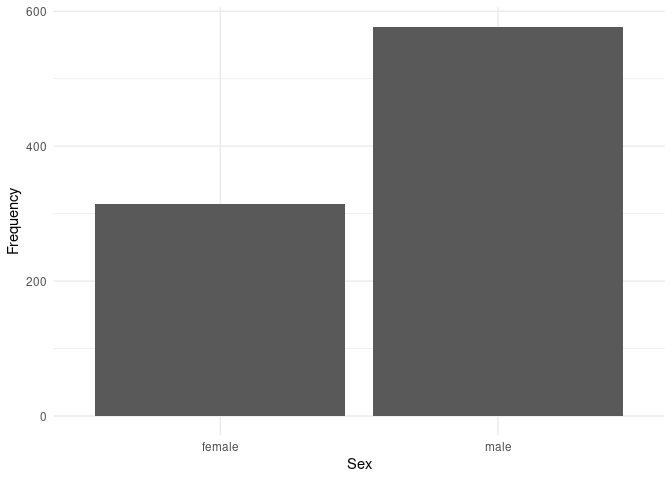
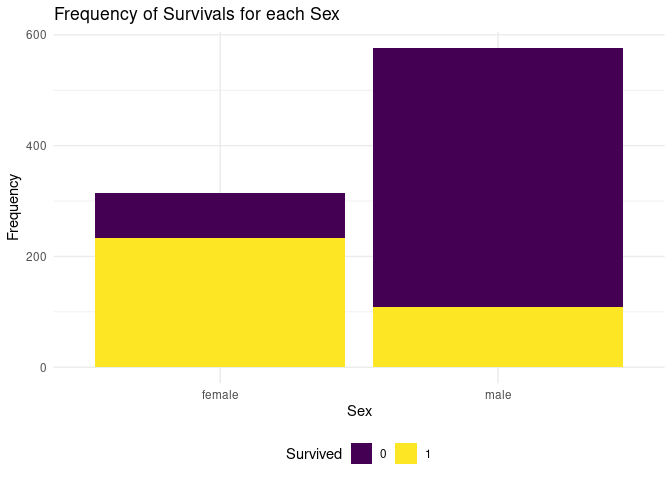
Section 3

diff --git a/proposal/proposal.md b/proposal/proposal.md
@@ -9,6 +9,8 @@ library(here)
 library(dplyr)
 library(ggplot2)
 library(ggridges)
+library(forcats)
+library(scales)
 ```
 
 ## 1. Introduction
@@ -99,28 +101,50 @@ The 12 variables in the data set are:
 
 ## 3. Data analysis plan
 
+``` r
+titanic$Survived <- as.factor(titanic$Survived)
+titanic$Sex <- as.factor(titanic$Sex)
+titanic$Pclass <- as.factor(titanic$Pclass)
+```
+
 #### Hypothesis 1: Women have a higher survival rate than men.
 
 We assume that men were helping women while the tragic of Titanic was
 taking place, since this is a habitual behavior of men to give priority
 to women. In order to confirm if this is true we will create a bar plot
 using gender as the predictor variable and frequency displayed in terms
-of colors showing survivals or not. Moreover, we will calculate the
-survival rate by gender. Since the variables that we will be using are
+of colors showing survivals or not as the outcome variable. Moreover, we
+will calculate the survival rate by gender.See the summary statistics
+below: filtering by the passengers who survived , we can see that the
+proportion of women passengers who survived is as high as 0.68 and the
+proportion of men passengers who survived is almost half of the women’s
+(approximately 0.32).Since the variables that we will be using are
 categorical , an appropriate statistical method to verify our hypothesis
 is the Chi-Square test as it will show whether gender and survival are
 independent or not of one another.
 
 ``` r
 titanic %>%
-  filter ( Survived == "1") %>%
-  count(Sex) %>%
-  mutate(n/sum(n))
+  ggplot(mapping=aes(x= Sex, fill= Survived))+
+  geom_bar()+
+  theme_minimal()+
+  scale_fill_viridis_d() +
+    labs( x = "Sex", y = "Frequency", fill = "Survived", title = "Frequency of Survivals for each Sex") +
+   theme(legend.position = "bottom")
 ```
 
-    ##      Sex   n  n/sum(n)
-    ## 1 female 233 0.6812865
-    ## 2   male 109 0.3187135
+![](proposal_files/figure-gfm/gender-survival-1.png)<!-- -->
+
+``` r
+titanic %>%
+  filter(Survived == "1") %>%
+  count(Sex) %>%
+  mutate(prop_survival = n / sum(n))
+```
+
+    ##      Sex   n prop_survival
+    ## 1 female 233     0.6812865
+    ## 2   male 109     0.3187135
 
 #### Hypothesis 2: The younger survivals are more than the older survivals .
 
@@ -129,31 +153,62 @@ for granted that people give priority to saving infants and young
 children by giving priority when it comes to providing life saving
 equipment.Beyond that the survival of passengers is highly related to
 physical abilities which means that the younger the passenger is the
-higher possibility to survive. We will have to create a new variable
-called “Age\_Range” which groups the ages by scale of 15, that is 0-15,
-16-30 etc. Then a possible way to visualize the data it is to use a
-histogram using “Age Range” as the predictor variable(X) and “Frequency”
-as the outcome variable(Y) displayed in terms of colors showing
-survivals or not. This type of graph will point out the the modal class
-of Age Ranges. Moreover we will calculate the survival rate by age range
-which will allow us to find out the ages with the highest possibility to
-survive. A statistical method that is more useful to answer our
+higher possibility to survive.A possible way to visualize the data it is
+to use a histogram using “Age” as the predictor variable(X) and
+“Frequency” as the outcome variable(Y) displayed in terms of colors
+showing survivals or not. This type of graph will point out the the Age
+with the highest number of survival. Since the dataset provides many
+ages, we will have to create a new variable called “Age\_Range” which
+groups the ages by scale of 10, that is 0-10, 11-20 etc so that we can
+find the survival rate for each age range and come out with more
+discrete conclusion.See the summary statistics below: filtering by the
+passengers who survived, we can see that the proportion of passengers
+aged between 21-30 years old have the highest probability to survive
+with 0.246.A statistical method that is more useful to answer our
 hypothesis is to create a box plot for all ages so that we can conclude
 which ages have highest possibility to survive as it displays the median
-as well as the standard deviation and excludes outliers, extreme values.
+as well as interquartile range which they exclude outliers, extreme
+values.
+
+``` r
+titanic %>% 
+  ggplot(mapping=aes( x= Age , fill=Survived))+
+  geom_histogram( binwidth=5 )+
+   theme_minimal()+
+  scale_fill_viridis_d() +
+    labs( x = "Age", y = "Frequency", fill = "Survived", title = "Survival rate by age") +
+   theme(legend.position = "bottom")
+```
+
+    ## Warning: Removed 177 rows containing non-finite values (stat_bin).
+
+![](proposal_files/figure-gfm/age-survival-1.png)<!-- -->
 
 ``` r
 titanic %>%
   filter(Survived == "1") %>%
-  mutate(Age_Range = case_when(Age >= 0  & Age <= 15 ~ "0-15",
-                                             Age >= 16  & Age <= 30 ~ "16-30",
-                                             Age >= 31  & Age <= 45 ~ "31-45",
-                               Age >= 46 & Age<= 60 ~ "46-60",
-                               Age >= 61 & Age<=85 ~ "61-85" ) ) %>%
-  ggplot(mapping=aes())
+  mutate(Age_Range = case_when(Age >= 0  & Age <= 10 ~ "0-10",
+                               Age >= 11 & Age <= 20 ~ "11-20",
+                               Age >= 21 & Age <= 30 ~ "21-30",
+                               Age >= 31 & Age <= 40 ~ "31-40",
+                               Age >= 41 & Age <=50 ~  "41-50",
+                               Age >= 51 & Age <=60 ~  "51-60",
+                               Age >= 61 & Age <= 70 ~  "61-70",
+                               Age >= 71 & Age <= 80 ~ "71-80"))   %>%
+ count(Age_Range) %>%
+  mutate(prop_survival = n / sum(n)) 
 ```
 
-![](proposal_files/figure-gfm/age-survival-1.png)<!-- -->
+    ##   Age_Range  n prop_survival
+    ## 1      0-10 38   0.111111111
+    ## 2     11-20 44   0.128654971
+    ## 3     21-30 84   0.245614035
+    ## 4     31-40 69   0.201754386
+    ## 5     41-50 33   0.096491228
+    ## 6     51-60 17   0.049707602
+    ## 7     61-70  4   0.011695906
+    ## 8     71-80  1   0.002923977
+    ## 9      <NA> 52   0.152046784
 
 #### Hypothesis 3: The higher the class of the passenger, the higher survival rate.
 
@@ -164,20 +219,38 @@ their survival rate. Moreover, we expect the ticket price (`fare`
 variable) to follow a similar relationship as it is very likely that the
 ticket price and the class will have a linear relationship.See the
 summary statistics below: filtering by the passengers who didn’t survive
-(`filter(Survived == "0")`), we can see that the proportion of
-passengers who didn’t survive is as high as 0.68 in 3rd class passengers
-and much lower for first and second class (approximately 0.15 and 0.18
-respectively). Based on this , we can predict that the ticket price will
-have a positive linear relationship with the frequency survivals. A
-possible graph to display this relationship is the scatter plot having
-the ticket price to be the predictor variable and the survivals to be
-the outcome variable . A statistical method to use in order to support
-our hypothesis is to display the regression line on the scatter plot and
-find the regression constant in order to figure out if there is a strong
-correlation between ticket price and survivals.
+, we can see that the proportion of passengers who didn’t survive is as
+high as 0.68 in 3rd class passengers and much lower for first and second
+class (approximately 0.15 and 0.18 respectively). Based on this , we can
+also predict that the ticket price will have a positive linear
+relationship with the frequency of survivals. A possible graph to
+display this relationship is the bar plot having the class to be the
+predictor variable and the fare displayed in terms of colors showing
+survivals or not as the outcome variable .This support our hypothesis as
+the people who bought an expensive ticket in first class had a higher
+survival rate than those you bought a cheap ticket in 2nd and 3rd class.
+A statistical method to use in order to support our hypothesis is to
+display the regression line on a scatter plot where fare is the
+predictor variable and survival rate is the outcome variable and find
+the regression constant in order to figure out if there is a strong
+correlation between these variables.
 
 ``` r
-titanic %>%
+ titanic %>%
+  ggplot(mapping=aes(x = Pclass, y = Fare, fill = Survived)) +
+  geom_bar(stat = "identity", position = "dodge" )+
+  scale_fill_viridis_d()+
+  theme_minimal()+
+    labs( x = "Class ",
+          y = "Fare", fill = "Survived",
+          title = "Survival rate by class and fare") +
+   theme(legend.position = "bottom") 
+```
+
+![](proposal_files/figure-gfm/fare-survivals-relationship-1.png)<!-- -->
+
+``` r
+ titanic %>%
   filter(Survived == "0") %>%
   count(Pclass) %>%
   mutate(prop_death = n / sum(n)) 
@@ -187,19 +260,6 @@ titanic %>%
     ## 1      1  80  0.1457195
     ## 2      2  97  0.1766849
     ## 3      3 372  0.6775956
-
-#### Hypothesis 4: If a passenger had a cabin, the higher the possibility to survive.
-
-Cabins were on higher decks of Titanic which means that the passengers
-living in cabins had easier and faster access to the life saving boats.
-Based on this fact, we can conclude that passengers living in cabins had
-higher possibility to survive. We can visualize the data into a
-histogram as whether a passenger had or did not have a cabin as the
-predictor variable and frequency displayed in terms of colors showing
-survivals or not. Moreover, we will calculate the survival rate by
-having cabin or not. A Chi-square test will be carried out to show
-whether having a cabin or not affects the possibility of passenger to
-survive.
 
 #### Visualising the data together – Recreating a G.Bron’s historic chart
 
